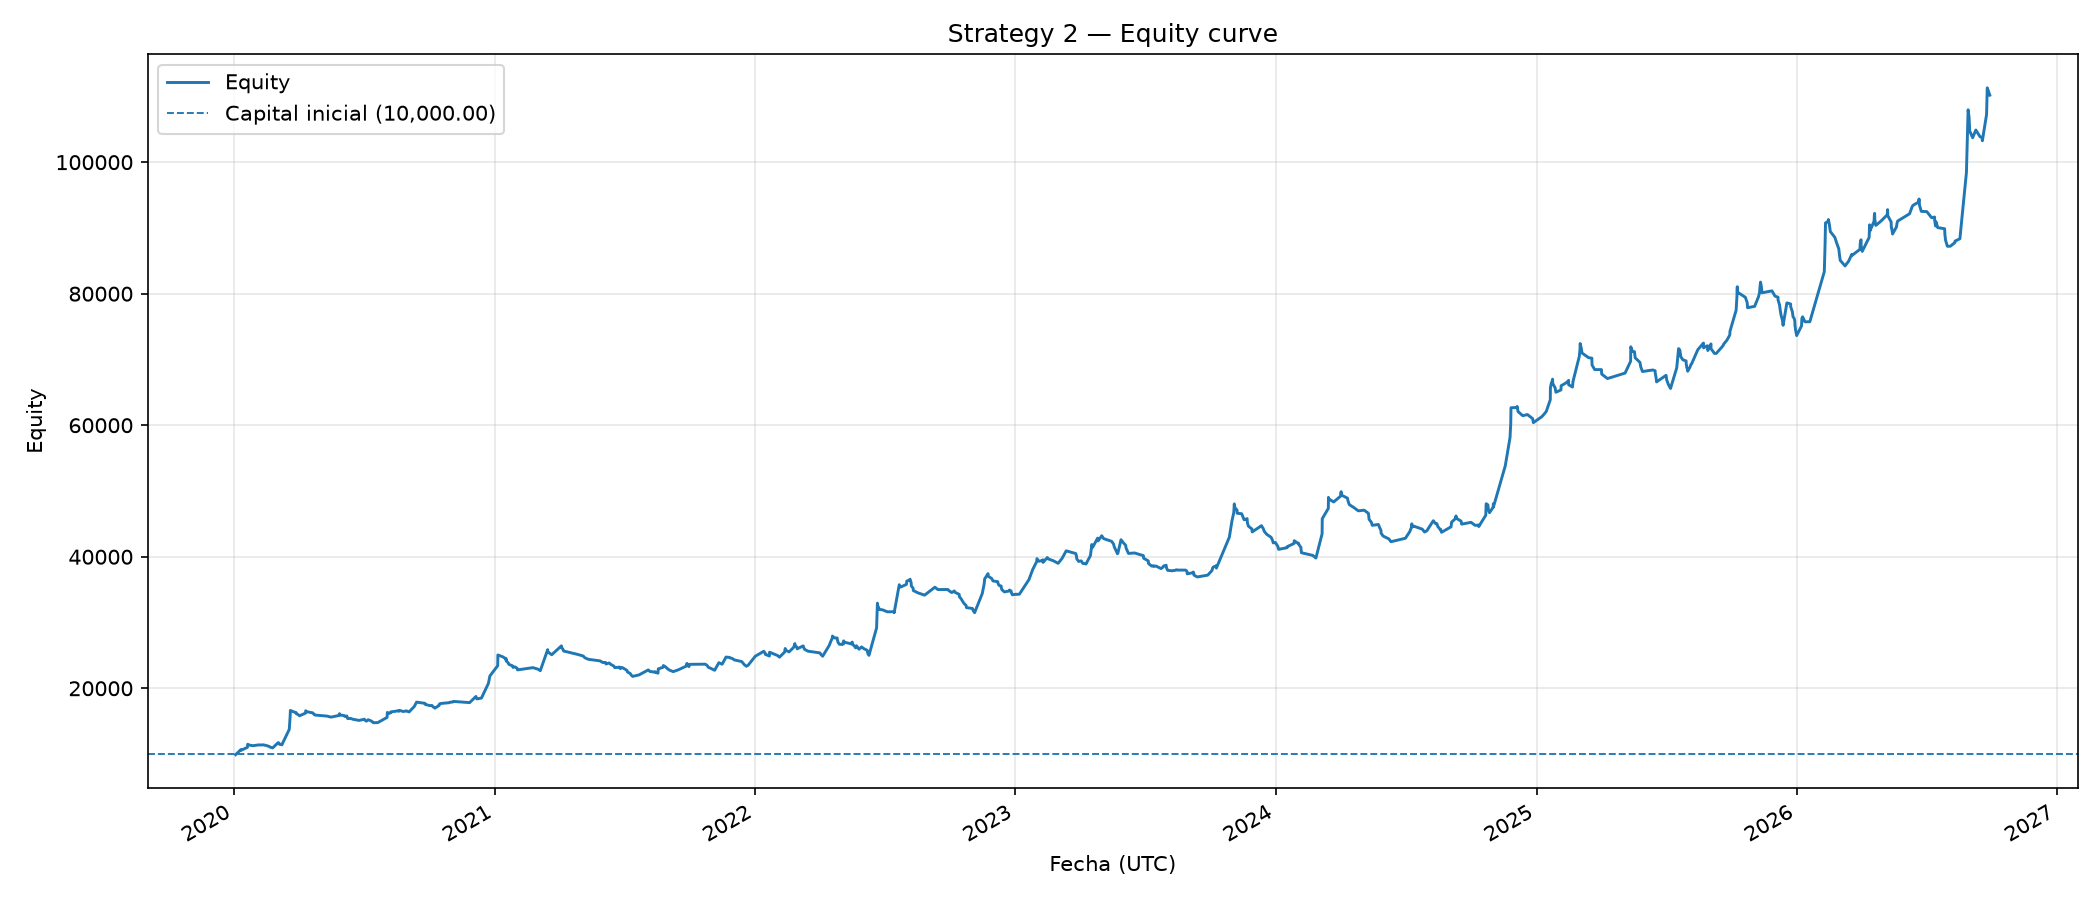
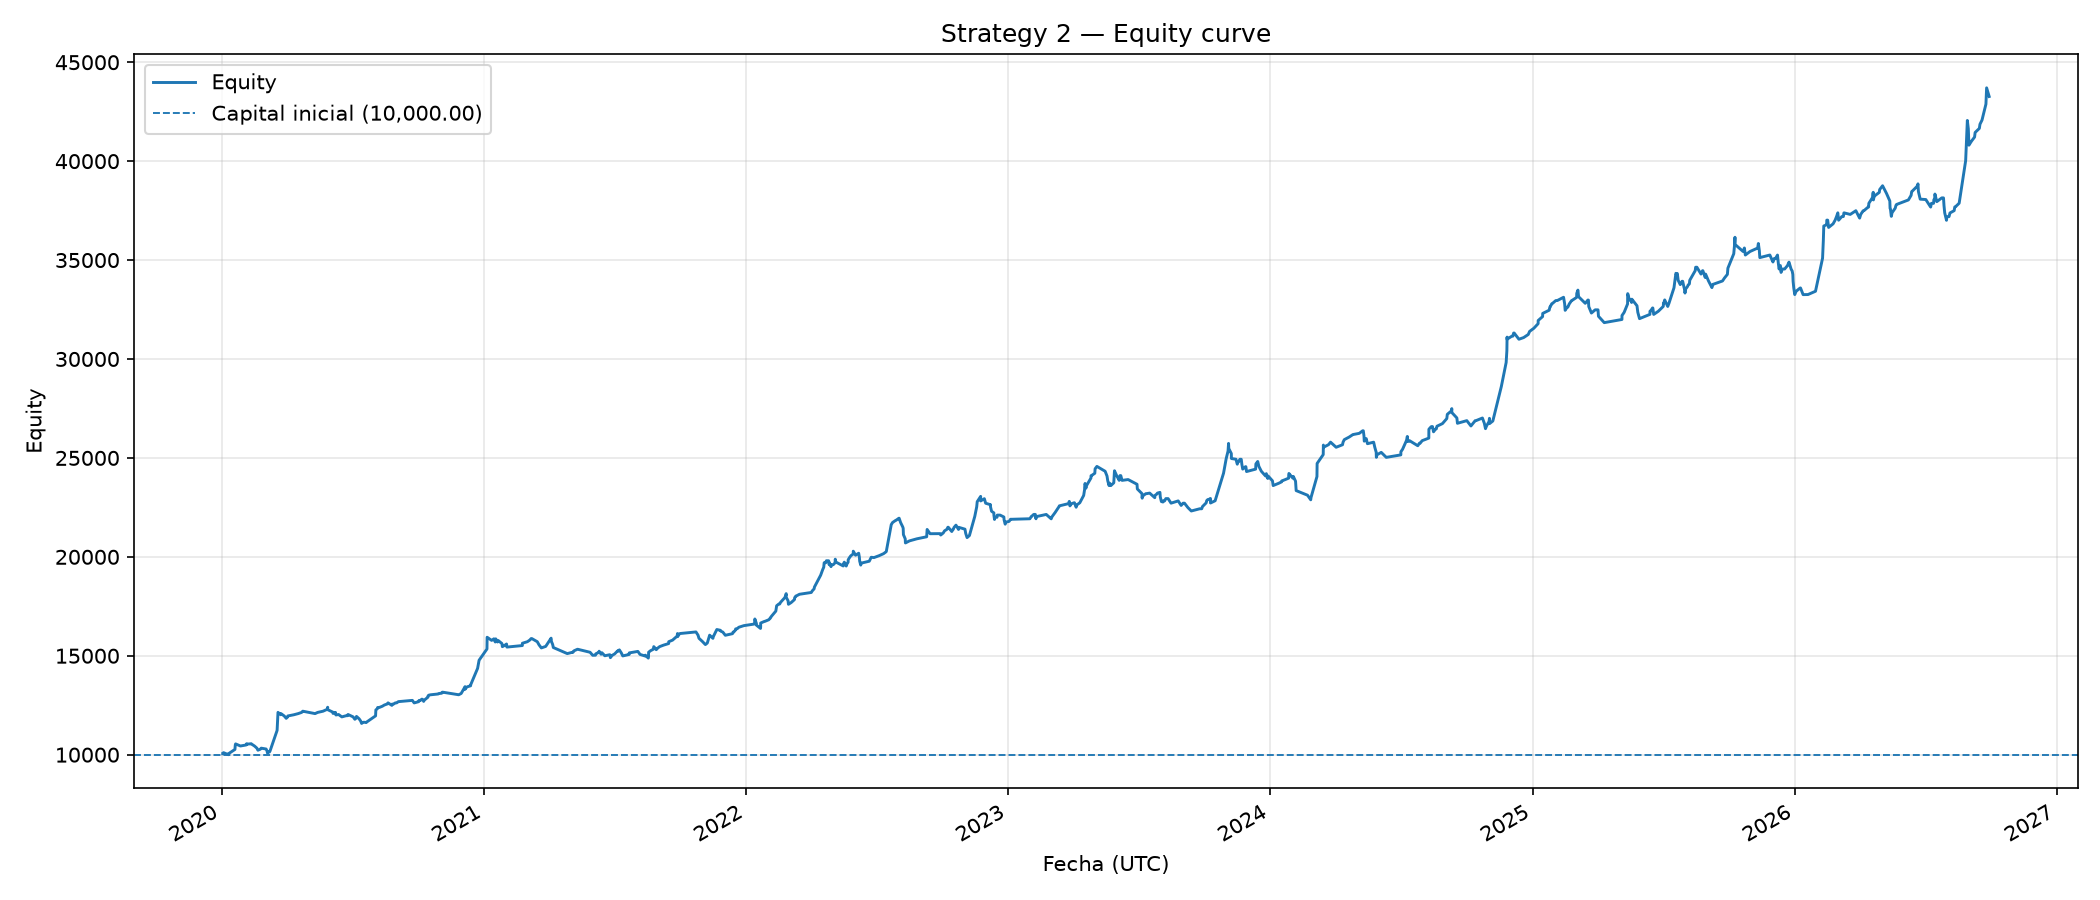
v.1.0.1

diff --git a/backend/services/backtest/bin/legacy/strategy/strategy2.py b/backend/services/backtest/bin/legacy/strategy/strategy2.py
@@ -3,6 +3,10 @@
 Strategy 2 — EMA Cross + ADX / EMA Weakening
 ============================================
 
+Gestión de salida por defecto: take-profit parcial a 1R (50%) y stop a
+breakeven del resto (`partial_tp_enabled`). Sube el win rate y recorta la
+racha de pérdidas en whipsaw; puede desactivarse con `partial_tp_enabled=False`.
+
 Archivo único con API reutilizable para backtesting y bots.
 
 Uso:
@@ -71,6 +75,16 @@ class Config:
     ema_weakening_gap_pct: float = 0.001
     ema_weakening_exit_pct: float = 50.0
 
+    # Gestión de salida orientada a reducir la racha de pérdidas en whipsaw:
+    # al alcanzar `partial_tp_r` veces el riesgo inicial se asegura beneficio
+    # cerrando `partial_tp_pct` de la posición y, opcionalmente, se mueve el
+    # stop del resto a breakeven. Sube el win rate real (rompe rachas de
+    # stop-loss consecutivos) a cambio de recortar parte del retorno.
+    partial_tp_enabled: bool = True
+    partial_tp_r: float = 1.0
+    partial_tp_pct: float = 50.0
+    move_stop_to_breakeven: bool = True
+
     force_close_at_end: bool = True
     timestamp_is_close: bool = False
 
@@ -100,6 +114,9 @@ class Config:
         if self.ema_weakening_exit_enabled:
             if self.ema_weakening_gap_pct <= 0 or not 0 < self.ema_weakening_exit_pct <= 100:
                 raise ValueError("Configuración de weakening inválida.")
+        if self.partial_tp_enabled:
+            if self.partial_tp_r <= 0 or not 0 < self.partial_tp_pct <= 100:
+                raise ValueError("Configuración de take-profit parcial inválida.")
         if not (self.allow_long or self.allow_short):
             raise ValueError("Debe habilitarse LONG, SHORT o ambos.")
 
@@ -115,6 +132,8 @@ class Position:
     entry_fee: float
     stop_pct: float
     risk_amount: float
+    breakeven: bool = False
+    partial_done: bool = False
 
 
 @dataclass
@@ -471,14 +490,38 @@ class Backtester:
             pos.quantity = remaining
             pos.entry_fee -= entry_fee
 
+    def _risk_unit(self, pos: Position) -> float:
+        return pos.risk_amount / pos.initial_quantity if pos.initial_quantity else 0.0
+
+    def _manage(self, i: int):
+        """Take-profit parcial y stop a breakeven para recortar rachas de pérdidas."""
+        cfg, pos = self.cfg, self.position
+        if pos is None or not cfg.partial_tp_enabled or pos.partial_done:
+            return
+        risk_unit = self._risk_unit(pos)
+        if risk_unit <= 0:
+            return
+        trigger = pos.entry_price + pos.side * cfg.partial_tp_r * risk_unit
+        hit = self.h[i] >= trigger if pos.side == 1 else self.l[i] <= trigger
+        if not hit:
+            return
+        fill = max(trigger, self.o[i]) if pos.side == 1 else min(trigger, self.o[i])
+        self.close_position(cfg.partial_tp_pct, fill, self.times[i], f"PARTIAL_TP_{cfg.partial_tp_r:g}R")
+        pos = self.position
+        if pos is not None:
+            pos.partial_done = True
+            if cfg.move_stop_to_breakeven:
+                pos.breakeven = True
+
     def _stop(self, i: int) -> bool:
         pos = self.position
         if pos is None or pos.stop_pct <= 0: return False
-        stop = self._stop_price(pos.side, pos.entry_price, pos.stop_pct)
+        stop = pos.entry_price if pos.breakeven else self._stop_price(pos.side, pos.entry_price, pos.stop_pct)
         hit = self.l[i] <= stop if pos.side == 1 else self.h[i] >= stop
         if not hit: return False
         fill = min(self.o[i], stop) if pos.side == 1 else max(self.o[i], stop)
-        self.close_position(100, fill, self.times[i], f"STOP_LOSS_{pos.stop_pct*100:.2f}%")
+        reason = "BREAKEVEN" if pos.breakeven else f"STOP_LOSS_{pos.stop_pct*100:.2f}%"
+        self.close_position(100, fill, self.times[i], reason)
         if self.verbose: print(f"[STOP] {self.times[i]} fill={fill:.8f}", flush=True)
         return True
 
@@ -521,6 +564,8 @@ class Backtester:
                 self.pending_exit = None
 
             stop_hit = self._stop(i)
+            if not stop_hit:
+                self._manage(i)
             if not stop_hit and bool(self.signals["valid"].iloc[i]):
                 target = int(self.signals["target"].iloc[i])
                 if target == 1 and not cfg.allow_long: target = 0
@@ -732,6 +777,10 @@ def parse_args():
     p.add_argument("--ema-weakening-timeframe", default=d.ema_weakening_timeframe)
     p.add_argument("--ema-weakening-gap-pct", type=float, default=d.ema_weakening_gap_pct)
     p.add_argument("--ema-weakening-exit-pct", type=float, default=d.ema_weakening_exit_pct)
+    p.add_argument("--partial-tp", action=argparse.BooleanOptionalAction, default=d.partial_tp_enabled)
+    p.add_argument("--partial-tp-r", type=float, default=d.partial_tp_r)
+    p.add_argument("--partial-tp-pct", type=float, default=d.partial_tp_pct)
+    p.add_argument("--breakeven-stop", action=argparse.BooleanOptionalAction, default=d.move_stop_to_breakeven)
     p.add_argument("--no-long", action="store_true")
     p.add_argument("--no-short", action="store_true")
     p.add_argument("--no-force-close", action="store_true")
@@ -755,6 +804,8 @@ def config_from_args(a) -> Config:
         adx_adxlen=a.adx_adxlen, adx_key_level=a.adx_key_level, adx_exit_pct=a.adx_exit_pct,
         ema_weakening_exit_enabled=a.ema_weakening_exit, ema_weakening_timeframe=a.ema_weakening_timeframe,
         ema_weakening_gap_pct=a.ema_weakening_gap_pct, ema_weakening_exit_pct=a.ema_weakening_exit_pct,
+        partial_tp_enabled=a.partial_tp, partial_tp_r=a.partial_tp_r, partial_tp_pct=a.partial_tp_pct,
+        move_stop_to_breakeven=a.breakeven_stop,
         force_close_at_end=not a.no_force_close)
 
 
